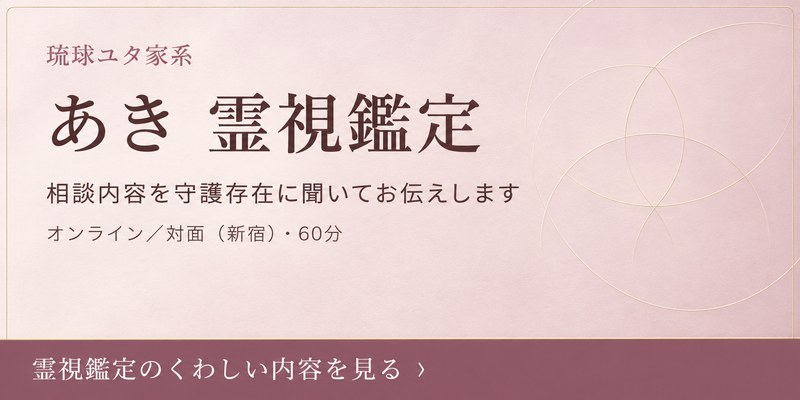
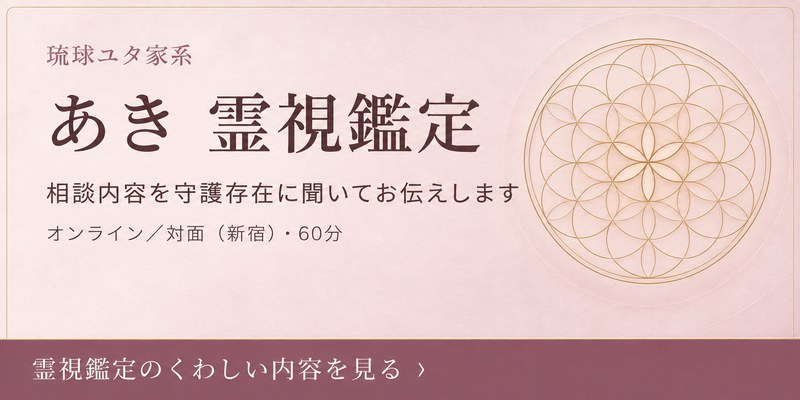
あき霊視鑑定バナーを採用版(フラワーオブライフ)に差し替え
Claude-Session: https://claude.ai/code/session_01WnJ4nSDsseRo9fW9bmER42

diff --git a/index.html b/index.html
@@ -1876,7 +1876,7 @@ function resultHTML(){
     <div class="ctabar hide" id="ctabar2" aria-hidden="true"><button class="btn rose cta shine coral" id="ctago2" type="button" tabindex="-1">このデザインで相談する（無料）<span class="arr">›</span></button></div>
     <a class="xban" href="https://motonory-a.github.io/japan-power-spots/?utm_source=bracelet&utm_medium=banner&utm_content=result" target="_blank" rel="noopener" data-track="ps_banner"><picture><source type="image/webp" srcset="banners/powerspot-banner-800.webp 800w, banners/powerspot-banner-1200.webp 1200w" sizes="(max-width:720px) 100vw, 640px"><img src="banners/powerspot-banner-1200.jpg" srcset="banners/powerspot-banner-800.jpg 800w, banners/powerspot-banner-1200.jpg 1200w" sizes="(max-width:720px) 100vw, 640px" width="1200" height="600" loading="lazy" decoding="async" alt="開運パワースポット巡り　次のお休み、どこに行こうか?　あなたに合う聖地を探す"></picture></a>
     <a class="xban" href="https://motonory-a.github.io/kippoui-hikkoshi/?utm_source=bracelet&utm_medium=banner&utm_content=result" target="_blank" rel="noopener" data-track="kh_banner"><picture><source type="image/webp" srcset="banners/kippoui-banner-800.webp 800w, banners/kippoui-banner-1200.webp 1200w" sizes="(max-width:720px) 100vw, 640px"><img src="banners/kippoui-banner-1200.jpg" srcset="banners/kippoui-banner-800.jpg 800w, banners/kippoui-banner-1200.jpg 1200w" sizes="(max-width:720px) 100vw, 640px" width="1200" height="600" loading="lazy" decoding="async" alt="開運！吉方位　引越しナビ　いつ、どの方位へ動くか。引越しの吉方位を調べる"></picture></a>
-    <a class="xban" href="https://motonory-a.github.io/aki-reishi/?utm_source=bracelet&utm_medium=banner&utm_content=result" target="_blank" rel="noopener" data-track="aki_banner"><picture><source type="image/webp" srcset="banners/aki-wide-banner-800.webp?v=2 800w, banners/aki-wide-banner-1200.webp?v=2 1200w" sizes="(max-width:720px) 100vw, 640px"><img src="banners/aki-wide-banner-1200.jpg?v=2" srcset="banners/aki-wide-banner-800.jpg?v=2 800w, banners/aki-wide-banner-1200.jpg?v=2 1200w" sizes="(max-width:720px) 100vw, 640px" width="1200" height="600" loading="lazy" decoding="async" alt="琉球ユタ家系　あき　霊視鑑定　相談内容を守護存在に聞いてお伝えします　オンライン/対面(新宿)・60分　詳しく見る"></picture></a>
+    <a class="xban" href="https://motonory-a.github.io/aki-reishi/?utm_source=bracelet&utm_medium=banner&utm_content=result" target="_blank" rel="noopener" data-track="aki_banner"><picture><source type="image/webp" srcset="banners/aki-wide-banner-800.webp?v=3 800w, banners/aki-wide-banner-1200.webp?v=3 1200w" sizes="(max-width:720px) 100vw, 640px"><img src="banners/aki-wide-banner-1200.jpg?v=3" srcset="banners/aki-wide-banner-800.jpg?v=3 800w, banners/aki-wide-banner-1200.jpg?v=3 1200w" sizes="(max-width:720px) 100vw, 640px" width="1200" height="600" loading="lazy" decoding="async" alt="琉球ユタ家系　あき　霊視鑑定　相談内容を守護存在に聞いてお伝えします　オンライン/対面(新宿)・60分　詳しく見る"></picture></a>
     <button class="linkbtn" id="restart" type="button">最初からやり直す</button>${TEST_MODE?feedbackHTML():""}</div>`;
 }
 function detailHTML(D){
